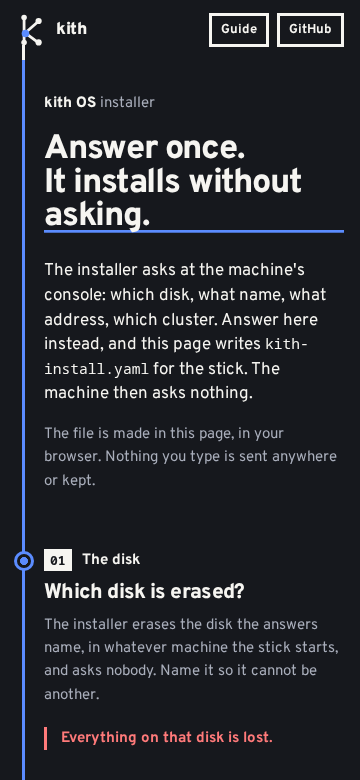
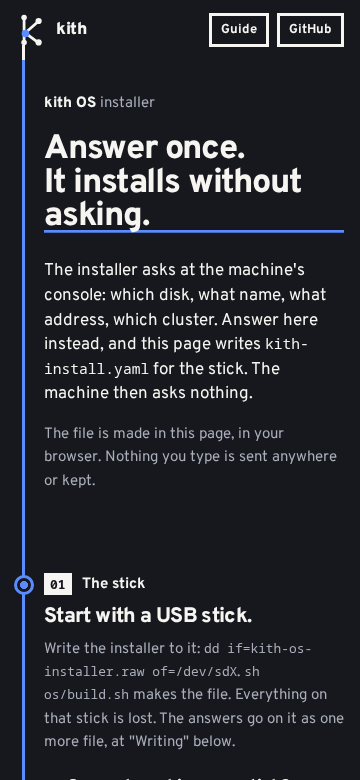
install page: the stick first, Writing and Recovery key stops, netboot as a branch off the rail; the address, DNS and join checks tightened; a third example the kithd test parses (T-0741)
Claude-Session: https://claude.ai/code/session_014VmQByGwffhEyMwjRcdjvq

Changed region(s): [[0.1222, 0.6769, 0.9472, 0.9538], [0.0306, 0.7077, 0.0917, 0.7692]]

diff --git a/docs/install.html b/docs/install.html
@@ -22,11 +22,15 @@
     <b>kith</b>
   </a>
   <nav aria-label="On this page">
+    <a href="#stick">Stick</a>
     <a href="#disk">Disk</a>
+    <a href="#name">Name</a>
     <a href="#network">Network</a>
     <a href="#cluster">Cluster</a>
-    <a href="#safety">Safety</a>
-    <a href="#stick">Stick</a>
+    <a href="#encryption">Encryption</a>
+    <a href="#policy">Policy</a>
+    <a href="#writing">Writing</a>
+    <a href="#recovery">Key</a>
   </nav>
   <button class="button quiet" id="motion" type="button" aria-pressed="false" hidden>Pause</button>
   <a class="button quiet" href="guide/os.html#installing-on-a-machine">Guide</a>
@@ -40,7 +44,19 @@
   <h1>Answer once. <span class="under">It installs without asking.</span></h1>
   <p class="lead">The installer asks at the machine's console: which disk, what name, what address, which cluster. Answer here instead, and this page writes <code>kith-install.yaml</code> for the stick. The machine then asks nothing.</p>
   <p class="fine">The file is made in this page, in your browser. Nothing you type is sent anywhere or kept.</p>
-  <noscript><p class="fine need">The form needs JavaScript, which is all this page runs. Without it, the example under "The stick" shows every field, and <a href="guide/os.html#installing-on-a-machine">the guide</a> says what each does.</p></noscript>
+  <noscript><p class="fine need">The form needs JavaScript, which is all this page runs. Without it, the example under "Writing" shows every field, and <a href="guide/os.html#installing-on-a-machine">the guide</a> says what each does.</p></noscript>
+</section>
+
+<section id="stick" class="part" data-see>
+  <div class="head">
+    <p class="no"><b>01</b> The stick</p>
+    <h2>Start with a USB stick.</h2>
+    <p>Write the installer to it: <code>dd if=kith-os-installer.raw of=/dev/sdX</code>. <code>sh os/build.sh</code> makes the file. Everything on that stick is lost. The answers go on it as one more file, at "Writing" below.</p>
+  </div>
+  <div class="net">
+    <h3>Several machines, no stick?</h3>
+    <p>A node can install the machines beside it from the network (PXE), and hand each the installer once. A form on the node's own web UI will do for netboot what this page does for one stick; it is not written yet. Today it is <code>kith node netboot</code>, which <a href="guide/os.html#installing-from-the-network">the guide</a> describes.</p>
+  </div>
 </section>
 
 <div class="install">
@@ -49,7 +65,7 @@
 
 <section id="disk" class="part" data-step data-see>
   <div class="head">
-    <p class="no"><b>01</b> The disk</p>
+    <p class="no"><b>02</b> The disk</p>
     <h2>Which disk is erased?</h2>
     <p>The installer erases the disk the answers name, in whatever machine the stick starts, and asks nobody. Name it so it cannot be another.</p>
   </div>
@@ -70,16 +86,24 @@
   </fieldset>
 </section>
 
-<section id="network" class="part" data-step data-see>
+<section id="name" class="part" data-step data-see>
   <div class="head">
-    <p class="no"><b>02</b> The network</p>
-    <h2>What is it called, and where is it?</h2>
-    <p>Leave a field empty and the machine asks the network (DHCP) and names itself from its network card's address.</p>
+    <p class="no"><b>03</b> The name</p>
+    <h2>What is the machine called?</h2>
+    <p>Leave it empty and the machine names itself from its network card's address.</p>
   </div>
   <div class="field">
     <label class="lab" for="hostname">Name <span class="dim">(empty: made from its network card's address)</span></label>
     <input type="text" id="hostname" name="hostname" placeholder="alpha" maxlength="63" spellcheck="false" autocapitalize="none">
     <p class="hint">Lower-case letters, digits and <code>-</code>, as a DNS label.</p>
+  </div>
+</section>
+
+<section id="network" class="part" data-step data-see>
+  <div class="head">
+    <p class="no"><b>04</b> The network</p>
+    <h2>Where is it?</h2>
+    <p>Leave a field empty and the machine asks the network (DHCP).</p>
   </div>
   <fieldset class="field">
     <legend class="lab">Address</legend>
@@ -100,7 +124,7 @@
 
 <section id="cluster" class="part" data-step data-see>
   <div class="head">
-    <p class="no"><b>03</b> The cluster</p>
+    <p class="no"><b>05</b> The cluster</p>
     <h2>Alone, or beside others?</h2>
     <p>A node that starts a cluster offers a claim on its console. A node that joins needs the address of one of the cluster's nodes and a token that node made.</p>
   </div>
@@ -117,14 +141,23 @@
   </fieldset>
 </section>
 
-<section id="safety" class="part" data-step data-see>
+<section id="encryption" class="part" data-step data-see>
   <div class="head">
-    <p class="no"><b>04</b> What it keeps</p>
-    <h2>And what it refuses.</h2>
-    <p>All of this can wait: leave it as it is and the node is as every kith OS node is, and the cluster can change most of it later.</p>
+    <p class="no"><b>06</b> Encryption</p>
+    <h2>Is its state locked?</h2>
+    <p>Leave it off and the node is as every kith OS node is. The cluster can change most of what follows later.</p>
   </div>
   <div class="field">
     <label class="switch"><input type="checkbox" role="switch" name="encrypt"><i class="line"><i></i></i><span class="say">Encrypt its state <small>Its state is under a key the cluster holds. <a href="guide/os.html#encrypted-state">Encrypted state</a>.</small></span></label>
+    <p class="hint key">With this on, the installer shows a recovery key once, on the machine's console, and then powers off. Be at the console, or watching it, and write the key down: it is the last stop on this page.</p>
+  </div>
+</section>
+
+<section id="policy" class="part" data-step data-see>
+  <div class="head">
+    <p class="no"><b>07</b> What it accepts</p>
+    <h2>And what it refuses.</h2>
+    <p>Leave it as it is and the cluster may have this node do anything.</p>
   </div>
   <div class="field">
     <label class="lab" for="releaseKey">Release key <span class="dim">(empty: the keys the image was built with)</span></label>
@@ -171,19 +204,20 @@
 
 </div>
 
-<section id="stick" class="part" data-see>
+<section id="writing" class="part" data-see>
   <div class="head">
-    <p class="no"><b>05</b> The stick</p>
+    <p class="no"><b>08</b> Writing</p>
     <h2>Put it where the installer looks.</h2>
     <p>Nothing is asked or confirmed after this: a stick with answers erases the disk they name in whatever machine it starts. Start only machines you mean to erase.</p>
   </div>
+  <p class="warn keep">The file names the disk it erases, and holds the join token and the release key. Keep the stick, and the file, private.</p>
   <div class="pair wide">
     <figure class="panel">
       <figcaption>on the stick</figcaption>
       <ol class="path">
-        <li>Write the installer to a USB stick: <code>dd if=kith-os-installer.raw of=/dev/sdX</code>. <code>sh os/build.sh</code> makes the file. Everything on that stick is lost too.</li>
         <li>Save <code>kith-install.yaml</code> on the stick's first partition, which is FAT.</li>
-        <li>Start the machine from the stick (UEFI). It copies kith OS to the disk, reads it back, and powers off: take the stick out and start it.</li>
+        <li>Start the machine from the stick (UEFI). It copies kith OS to the disk and reads it back. With encryption on, it shows the recovery key here: see the next stop.</li>
+        <li>It powers off. Take the stick out and start the machine.</li>
       </ol>
     </figure>
     <figure class="panel">
@@ -193,7 +227,7 @@
         <label class="lab" for="installUrl">Where the file will be</label>
         <input type="text" id="installUrl" placeholder="http://10.0.2.2/alpha.yaml" maxlength="300" spellcheck="false" autocapitalize="none" autocomplete="off">
       </div>
-      <pre class="cmd" id="cmdline" data-needs-js aria-live="polite">kith.install=http://HOST/FILE#sha256=HEX</pre>
+      <pre class="cmd" id="cmdline" data-needs-js>kith.install=http://HOST/FILE#sha256=HEX</pre>
       <p class="fine" id="cmdsay" data-needs-js>The digest is of the file as it is now. A change to an answer changes it. <code>sha256sum kith-install.yaml</code> prints the same.</p>
     </figure>
   </div>
@@ -212,10 +246,26 @@ lanReleases: true
 nodePolicy: hardened
 </pre>
   </div>
-  <div class="net">
-    <h3>Several machines at once?</h3>
-    <p>A node can install the machines beside it from the network (PXE), and hand each the installer once. A form on the node's own web UI will do for netboot what this page does for one stick; it is not written yet. Today it is <code>kith node netboot</code>, which <a href="guide/os.html#installing-from-the-network">the guide</a> describes.</p>
+  <div class="panel example">
+    <figcaption>an example, a fixed address and a policy of its own words</figcaption>
+<pre data-answers="custom" data-fields='{"diskKind":"name","diskName":"nvme0n1","hostname":"beta","ipKind":"static","ipAddress":"10.0.0.6/24","ipGateway":"10.0.0.1","clusterKind":"join","joinAddress":"10.0.0.7:7443","joinToken":"3f9a1c7e5b2d4a60.beta","policyKind":"custom","policyWords":"hardened,vms,devices=gpu+input"}'>disk: nvme0n1
+hostname: beta
+ip: 10.0.0.6/24,10.0.0.1
+join:
+  address: 10.0.0.7:7443
+  token: "3f9a1c7e5b2d4a60.beta"
+nodePolicy: "hardened,vms,devices=gpu+input"
+</pre>
   </div>
+</section>
+
+<section id="recovery" class="part" data-see>
+  <div class="head">
+    <p class="no"><b>09</b> The recovery key</p>
+    <h2>Write it down when it appears.</h2>
+    <p>Only if you turned encryption on. Before it powers off, the installer prints the node's recovery key once, on the machine's console: 32 digits in groups of four. Be there, or watch the console, and write it down. It is shown that once, and kept nowhere you can read it later.</p>
+  </div>
+  <p class="fine">Typed at a waiting machine's console, the key opens the node's state where no cluster answers. An install nobody watched has a key nobody saw: <code>kith node recovery NODE</code> makes a new one, shown once.</p>
   <p class="acts">
     <a class="button" href="guide/os.html#installing-on-a-machine">The guide has the rest</a>
     <a class="button quiet" href="index.html">Back to kith</a>

diff --git a/docs/install.css b/docs/install.css
@@ -41,7 +41,7 @@ input[type="text"] {
   background-color: var(--sunken); background-image: linear-gradient(var(--accent), var(--accent)); background-repeat: no-repeat; background-position: 0 100%; background-size: 0 3px;
   color: var(--text); font: 400 14px/1.4 var(--mono); transition: background-size var(--arrive) var(--ease);
 }
-input[type="text"]::placeholder { color: var(--dim); opacity: 0.8; }
+input[type="text"]::placeholder { color: var(--dim); opacity: 1; }
 input[type="text"]:focus-visible { outline: none; background-size: 100% 3px; }
 input[aria-invalid="true"] { border-bottom-color: var(--bad); background-image: linear-gradient(var(--bad), var(--bad)); }
 .hint, .err { margin-top: 8px; max-width: 60ch; font-size: var(--small); color: var(--dim); }
@@ -111,21 +111,29 @@ pre { white-space: pre; tab-size: 2; }
   .file { position: static; margin-top: 56px; }
 }
 
-/* The stick: where the file goes, and the pin for a URL. */
-#stick .head { margin-bottom: 32px; }
-#stick .path { margin-top: 12px; }
-#stick .path li { padding-bottom: 20px; }
-#stick .path li:last-child { padding-bottom: 0; }
-#stick .path li::before { top: 4px; }
-#stick .panel pre { margin-top: 4px; }
+/* The stick first, then the steps, then writing it and the key; netboot is a branch off the rail beside the stick. */
+#stick .head, #recovery .head { margin-bottom: 20px; }
+#stick .head > p:last-child, #writing .head > p:last-child, #recovery .head > p:last-child { max-width: 56ch; font-size: var(--note); }
+#stick h2, #writing h2, #recovery h2 { font-size: var(--head); margin-block: 10px 10px; }
+#writing .head { margin-bottom: 20px; }
+#writing .keep { margin-bottom: 32px; max-width: 56ch; }
+#writing .path { margin-top: 12px; }
+#writing .path li { padding-bottom: 20px; }
+#writing .path li:last-child { padding-bottom: 0; }
+#writing .path li::before { top: 4px; }
+#writing .panel pre { margin-top: 4px; }
+#recovery .fine { max-width: 56ch; }
+.hint.key { margin-top: 14px; padding-left: 14px; border-left: var(--stroke) solid var(--warn); color: var(--text); }
 .cmd { white-space: pre-wrap; overflow-wrap: anywhere; margin-top: 16px; padding: 14px 16px; }
 .cmd.live { animation: flash 1.2s var(--ease); }
 #installUrl { max-width: none; }
 .example { margin-top: 48px; }
-.net { margin-top: 56px; border-top: var(--stroke) solid var(--text); padding-top: 14px; max-width: 46em; }
-.net h3 { margin-bottom: 6px; }
-.net p { color: var(--dim); font-size: var(--note); }
-#stick .acts { margin-top: 36px; }
+.net { position: relative; margin-top: 8px; max-width: 46em; }
+.net::before { content: ""; position: absolute; left: calc(7.5px - var(--rail)); top: 14px; width: calc(var(--rail) - 7.5px + 12px); height: var(--stroke); background: var(--text); }
+.net::after { content: ""; position: absolute; left: calc(7.5px - var(--rail) - 6px + var(--stroke) / 2); top: calc(14px - 6px + var(--stroke) / 2); width: 12px; height: 12px; border: var(--stroke) solid var(--text); border-radius: 50%; background: var(--bg); }
+.net h3 { margin-left: 24px; margin-bottom: 6px; }
+.net p { margin-left: 24px; color: var(--dim); font-size: var(--note); }
+#recovery .acts, #writing .acts { margin-top: 28px; }
 
 .toast { position: fixed; z-index: 5; right: var(--gutter); bottom: var(--gutter); max-width: calc(100vw - 2 * var(--gutter)); padding: 10px 16px; background: var(--text); color: var(--bg); font-weight: 700; font-size: var(--note); opacity: 0; transform: translateY(16px); pointer-events: none; transition: opacity var(--arrive) var(--ease), transform var(--arrive) var(--ease); }
 .toast.on { opacity: 1; transform: none; }
@@ -135,6 +143,7 @@ pre { white-space: pre; tab-size: 2; }
 @media (max-width: 720px) {
   .intro { padding-top: 32px; }
   .install .part { --gap: 56px; }
+  input[type="text"] { font-size: 16px; } /* under 16px, iOS zooms the page when a field is focused */
   .file .button { padding: 7px 12px; font-size: var(--small); }
 }
 @media (prefers-reduced-motion: reduce) {

diff --git a/docs/install.js b/docs/install.js
@@ -17,7 +17,7 @@ motion.onclick = () => {
 
 // What the installer accepts, as it checks it (install.rs, init.rs, policy.rs): said here first.
 const octets = s => { const p = s.split("."); return p.length === 4 && p.every(o => /^(0|[1-9][0-9]{0,2})$/.test(o) && +o <= 255); };
-const ipv6 = s => /^[0-9a-fA-F:.]{2,45}$/.test(s) && (s.match(/:/g) || []).length >= 2;
+const ipv6 = s => { try { return /^[0-9a-fA-F:.]{2,45}$/.test(s) && !!new URL(`http://[${s}]`); } catch { return false; } }; // the browser's own parser, as the installer's is a real one
 const KEYS = ["exec-units", "root-containers", "unconfined", "node-network", "vms", "vm-paths", "passthrough", "host-paths", "run", "wipe"];
 const CLASSES = ["gpu", "display", "input", "audio", "usb", "camera", "other"];
 const policyWord = w => w === "hardened" || KEYS.includes(w) || (w.startsWith("no-") && KEYS.includes(w.slice(3)))
@@ -26,7 +26,7 @@ const policyWord = w => w === "hardened" || KEYS.includes(w) || (w.startsWith("n
 // A value is written as it is when YAML would read it back as the same text, and in quotes when it
 // might be a number, a truth or a null (a hostname `123`, a disk `n`).
 const WORDS = /^(true|false|null|yes|no|on|off|y|n|~)$/i;
-const plain = s => /^[A-Za-z0-9][A-Za-z0-9._:/,-]*$/.test(s) && !WORDS.test(s) && !Number.isFinite(Number(s))
+const plain = s => /^[A-Za-z0-9]([A-Za-z0-9._:/,-]*[A-Za-z0-9._/,-])?$/.test(s) && !WORDS.test(s) && !Number.isFinite(Number(s))
   && !/^[0-9_:]+(\.[0-9_]*)?$/.test(s) && !/^0[box]/i.test(s);
 const text = s => (plain(s) ? s : JSON.stringify(s));
 
@@ -57,9 +57,9 @@ function compile() {
   else if (host) lines.push(`hostname: ${text(host)}`);
 
   if (f("ipKind").value === "static") {
-    const [address, bits = ""] = val("ipAddress").split("/"), way = val("ipGateway");
+    const parts = val("ipAddress").split("/"), [address, bits = ""] = parts, way = val("ipGateway");
     if (!val("ipAddress")) missing("ipAddress", "give the fixed address, as 10.0.0.5/24.");
-    else if (!octets(address) || !/^(0|[1-9][0-9]?)$/.test(bits) || +bits > 32) wrong("ipAddress", "the address is ADDRESS/BITS, as 10.0.0.5/24.");
+    else if (parts.length !== 2 || !octets(address) || !/^(0|[1-9][0-9]?)$/.test(bits) || +bits > 32) wrong("ipAddress", "the address is ADDRESS/BITS, as 10.0.0.5/24.");
     else if (way && !octets(way)) wrong("ipGateway", "the way out is an IPv4 address, as 10.0.0.1.");
     else lines.push(`ip: ${text(val("ipAddress") + (way ? "," + way : ""))}`);
   }
@@ -72,7 +72,7 @@ function compile() {
     const address = val("joinAddress"), token = val("joinToken");
     let bad = false;
     if (!address) (bad = true, missing("joinAddress", "give the address of one of the cluster's nodes."));
-    else if (!/^[A-Za-z0-9.:\[\]-]+$/.test(address) || !address.includes(":") || address.startsWith("-")) (bad = true, wrong("joinAddress", "a node's address is ADDRESS:PORT, as 10.0.0.7:7443."));
+    else if (!/^[A-Za-z0-9.:\[\]-]+$/.test(address) || !/:[0-9]{1,5}$/.test(address) || address.startsWith("-")) (bad = true, wrong("joinAddress", "a node's address is ADDRESS:PORT, as 10.0.0.7:7443."));
     if (!token) (bad = true, missing("joinToken", "give the join token."));
     else if (!/^[A-Za-z0-9.-]+$/.test(token) || token.startsWith("-")) (bad = true, wrong("joinToken", "that is not a join token: \"kith node token\" on the cluster makes them."));
     if (!bad) lines.push("join:", `  address: ${text(address)}`, `  token: ${JSON.stringify(token)}`);

diff --git a/ci/site_shots.py b/ci/site_shots.py
@@ -51,6 +51,20 @@ YAML = """<!doctype html><iframe id=f src="install.html" style="width:1440px;hei
   out.example = shown() === wanted("example") && d.getElementById("get").disabled === false;
   d.getElementById("reset").click();
   out.reset = shown() === wanted("default");
+  // the form filled in by hand (the page's data-fields), as a person would: a fixed address, a join, a policy of its own words
+  const fill = fields => { for (const [name, value] of Object.entries(fields)) {
+    const radio = d.querySelector('input[name="' + name + '"][type=radio][value="' + value + '"]');
+    if (radio) radio.click();
+    else { const input = d.getElementById(name); input.value = value; input.dispatchEvent(new Event("input", { bubbles: true })); }
+  } };
+  fill(JSON.parse(source.querySelector("pre[data-answers=custom]").dataset.fields));
+  out.custom = shown() === wanted("custom") && d.getElementById("get").disabled === false;
+  // and what must not say Ready: a third piece in the address, a half address, a half join address
+  const refused = (fields, ok) => { d.getElementById("reset").click(); fill(fields); return d.getElementById("get").disabled === !ok; };
+  out.refuses = refused({ ipKind: "static", ipAddress: "10.0.0.5/24/3" }, false) && refused({ ipKind: "static", ipAddress: "10.0.0.5/24" }, true)
+    && refused({ dns: "1:2" }, false) && refused({ dns: "fe80::1" }, true)
+    && refused({ clusterKind: "join", joinAddress: "10.0.0.7:", joinToken: "abc.def" }, false) && refused({ clusterKind: "join", joinAddress: "10.0.0.7:7443", joinToken: "abc.def" }, true);
+  d.getElementById("reset").click();
   setTimeout(() => document.body.textContent = "YAML " + JSON.stringify(out), 300);
 };</script>"""
 
@@ -90,7 +104,9 @@ def main():
         said = subprocess.run([chrome, "--no-sandbox", "--disable-gpu", "--virtual-time-budget=4000", "--dump-dom", base + "yaml-check.html"], check=True, capture_output=True, text=True, timeout=120).stdout
         checked = re.search(r"YAML (\{.*?\})", said)
         print(f"the form's yaml is the page's own examples: {checked.group(1) if checked else said[:200]}")
-        failed |= not (checked and "false" not in checked.group(1))
+        yaml_failed = not (checked and "false" not in checked.group(1))
+    else:
+        yaml_failed = False
     for width in (360, 768, 1440):
         # first what sticks out and how tall the page is: the window below is made that tall
         said = subprocess.run([chrome, "--no-sandbox", "--disable-gpu", "--force-prefers-reduced-motion", "--virtual-time-budget=4000", "--dump-dom", base + f"probe-{width}.html"], check=True, capture_output=True, text=True, timeout=120).stdout
@@ -117,6 +133,8 @@ def main():
         # and the first screen as it moves, five seconds in (no reduced motion: the map is running)
         live = out / "top" / f"{'live' if stem == 'site' else stem + '-live'}-{width}.png"
         subprocess.run([chrome, "--no-sandbox", "--disable-gpu", "--hide-scrollbars", f"--window-size={width},{780 if width < 768 else 900}", "--virtual-time-budget=5000", f"--screenshot={live}", address], check=True, capture_output=True, timeout=120)
+    if yaml_failed:
+        sys.exit("the form's yaml is not the page's own examples (a false above): fix the form or the examples" + ("; and something is wider than the screen" if failed else ""))
     if failed:
         sys.exit("something is wider than the screen: see above")
 

diff --git a/crates/kithd/src/install.rs b/crates/kithd/src/install.rs
@@ -1478,7 +1478,7 @@ mod tests {
             text.replace("&quot;", "\"").replace("&lt;", "<").replace("&gt;", ">").replace("&amp;", "&")
         };
         let mut seen = Vec::new();
-        for name in ["default", "example"] {
+        for name in ["default", "example", "custom"] {
             let yaml = example(name);
             let told = answers(&yaml).unwrap_or_else(|e| panic!("{name}:\n{yaml}\n{e}"));
             let mut one = disk("nvme0n1", 256);
@@ -1493,5 +1493,15 @@ mod tests {
         assert!(full.join.is_some() && full.encrypt && full.release_key.is_some() && full.lan_releases);
         assert!(full.node_policy.is_some());
         assert!(seen[1].1.contains("--join ") && seen[1].1.contains("--release-key ") && seen[1].1.contains("--lan-releases"));
+        // The third is what the form writes for a fixed address with its way out, a join and a policy of its
+        // own words (ci/site_shots.py fills the form from the block's data-fields and compares): the installer
+        // takes the address, the join and the policy as the words the form joined.
+        let custom = &seen[2].0;
+        assert_eq!(custom.disk, "nvme0n1");
+        assert_eq!(custom.ip.as_deref(), Some("10.0.0.6/24,10.0.0.1"));
+        assert_eq!(custom.join.as_ref().map(|j| j.address.as_str()), Some("10.0.0.7:7443"));
+        assert_eq!(custom.node_policy.as_deref(), Some("hardened,vms,devices=gpu+input"));
+        assert!(!custom.encrypt && !custom.lan_releases && custom.release_key.is_none() && custom.dns.is_none());
+        assert!(seen[2].1.contains("--advertise 10.0.0.6:") && seen[2].1.contains("--join 10.0.0.7:7443 --token ") && seen[2].1.contains("--node-policy hardened,vms,devices=gpu+input"));
     }
 }

diff --git a/crates/kith-cli/tests/readme.rs b/crates/kith-cli/tests/readme.rs
@@ -545,13 +545,13 @@ fn readme_shows_the_install_pin_and_the_review_says_m2_is_fixed() {
     );
 }
 
-/// The installer's page (docs/install.html) carries the two answer files kithd's own unit test parses
+/// The installer's page (docs/install.html) carries the three answer files kithd's own unit test parses
 /// (`the_install_page_examples`), and the front page and the guide lead to it.
 #[test]
 fn the_installer_page_is_there_and_linked() {
     let read = |path: &str| std::fs::read_to_string(root().join(path)).unwrap();
     let page = read("docs/install.html");
-    for name in ["default", "example"] {
+    for name in ["default", "example", "custom"] {
         assert!(page.contains(&format!("<pre data-answers=\"{name}\"")), "docs/install.html has no <pre data-answers=\"{name}\">");
     }
     assert!(read("docs/index.html").contains("href=\"install.html\""), "docs/index.html does not link docs/install.html");
